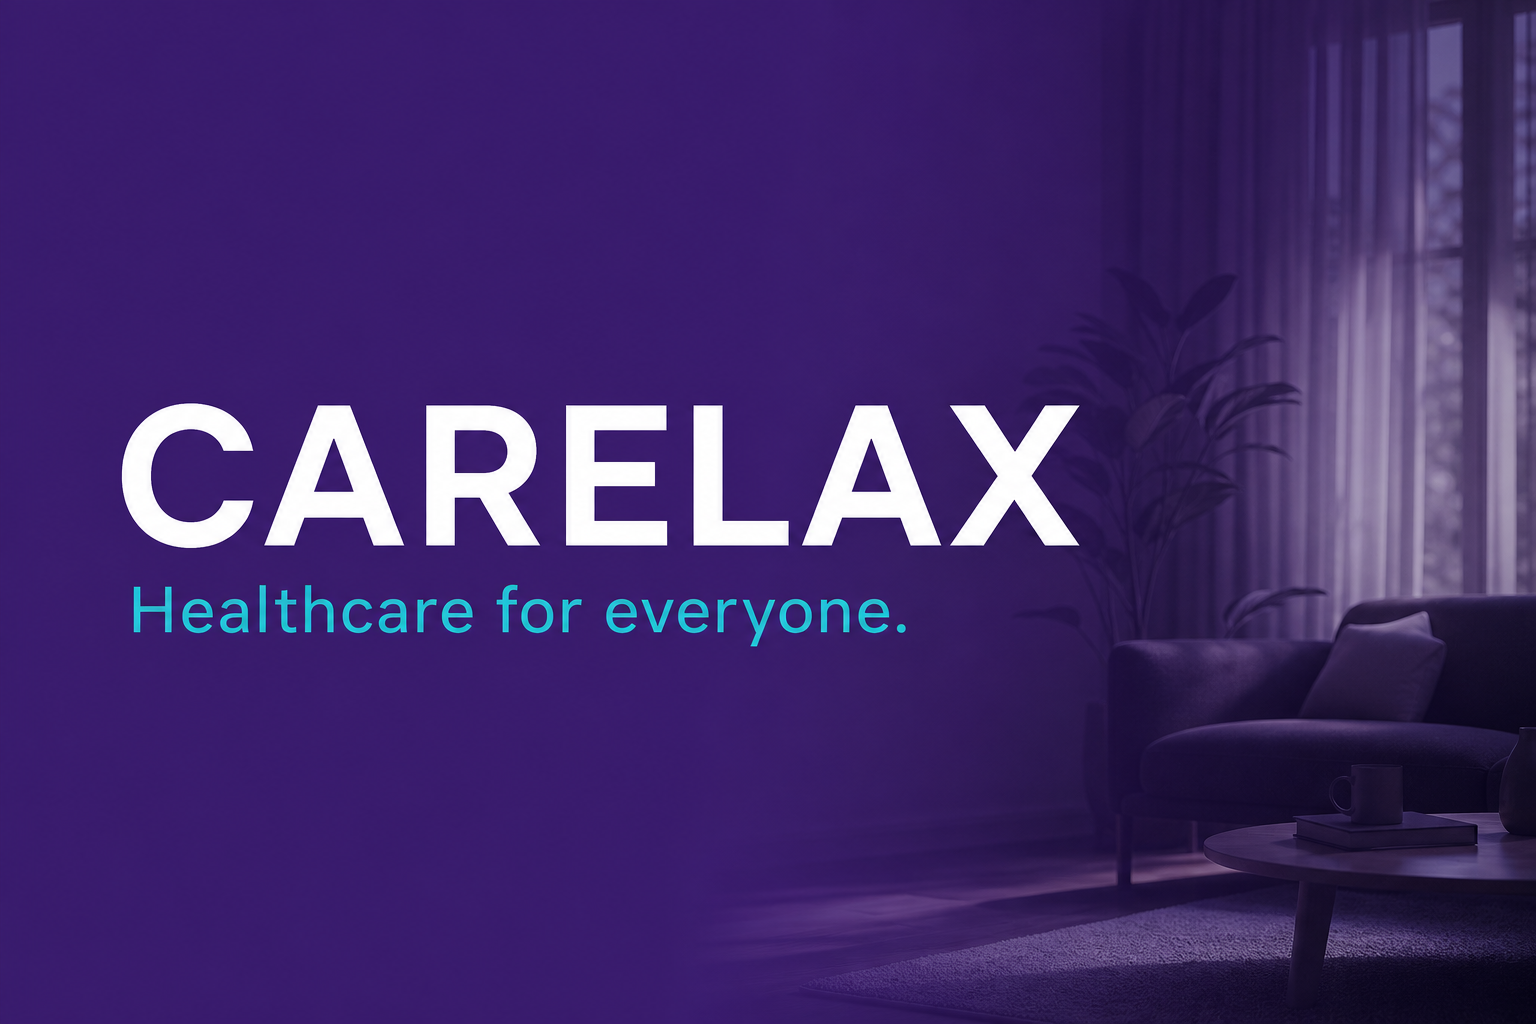
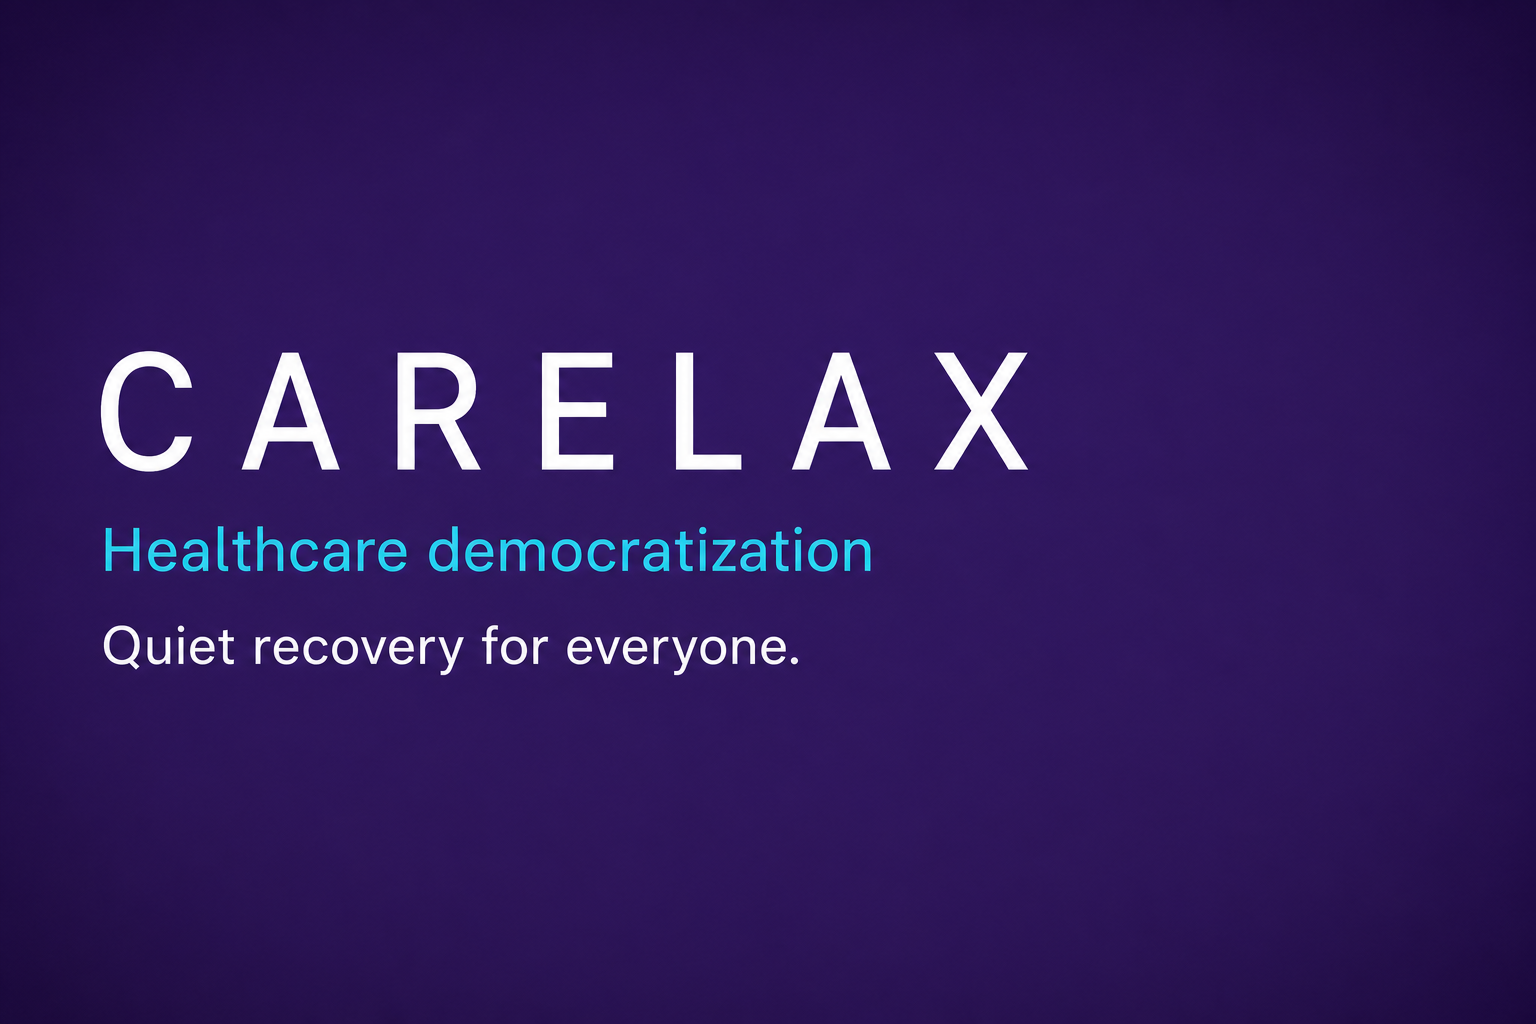
Finalize tone alignment and refresh text-only OG preview.

diff --git a/src/app/layout.tsx b/src/app/layout.tsx
@@ -39,15 +39,13 @@ export const metadata: Metadata = {
   creator: SITE.company.legalName,
   publisher: SITE.company.legalName,
   keywords: [
-    "케어렉스",
+    "\uCF00\uC5B4\uB809\uC2A4",
     "Carelax",
-    "안마의자",
-    "리클라이너",
-    "마사지기",
+    "\uC548\uB9C8\uC758\uC790",
+    "\uD5EC\uC2A4\uCF00\uC5B4 \uB300\uC911\uD654",
+    "\uB9AC\uD074\uB77C\uC774\uB108",
+    "\uC2A4\uB9C8\uD2B8\uC2A4\uD1A0\uC5B4",
     "CLX",
-    "아너스",
-    "샬루트",
-    "스마트스토어",
   ],
   alternates: {
     canonical: "/",

diff --git a/src/lib/site.ts b/src/lib/site.ts
@@ -4,7 +4,7 @@ export const SITE = {
   nameEn: "Carelax",
   tagline: "헬스케어 대중화",
   thesis: "고품질 헬스케어를 합리적으로 — 누구에게나 회복이 닿게.",
-  positioning: "Accessible Quiet Recovery",
+  positioning: "Healthcare Democratization",
   description: "케어렉스는 고품질 헬스케어를 합리적으로 제안하며, 누구에게나 회복이 닿는 일상을 만듭니다.",
   smartStoreUrl: "https://smartstore.naver.com/carelax",
   blogUrl: "https://blog.naver.com/carelax0606",

diff --git a/src/components/Wordmark.tsx b/src/components/Wordmark.tsx
@@ -24,7 +24,7 @@ export default function Wordmark({
 
   return (
     <span className={`inline-flex flex-col ${className}`}>
-      <span className={`font-brand ${sizeMap[size]} ${color}`}>Carelax</span>
+      <span className={`font-brand ${sizeMap[size]} ${color}`}>CARELAX</span>
       {showKo ? (
         <span
           className={`mt-1 text-sm font-medium tracking-[0.35em] md:text-base ${koColor}`}
